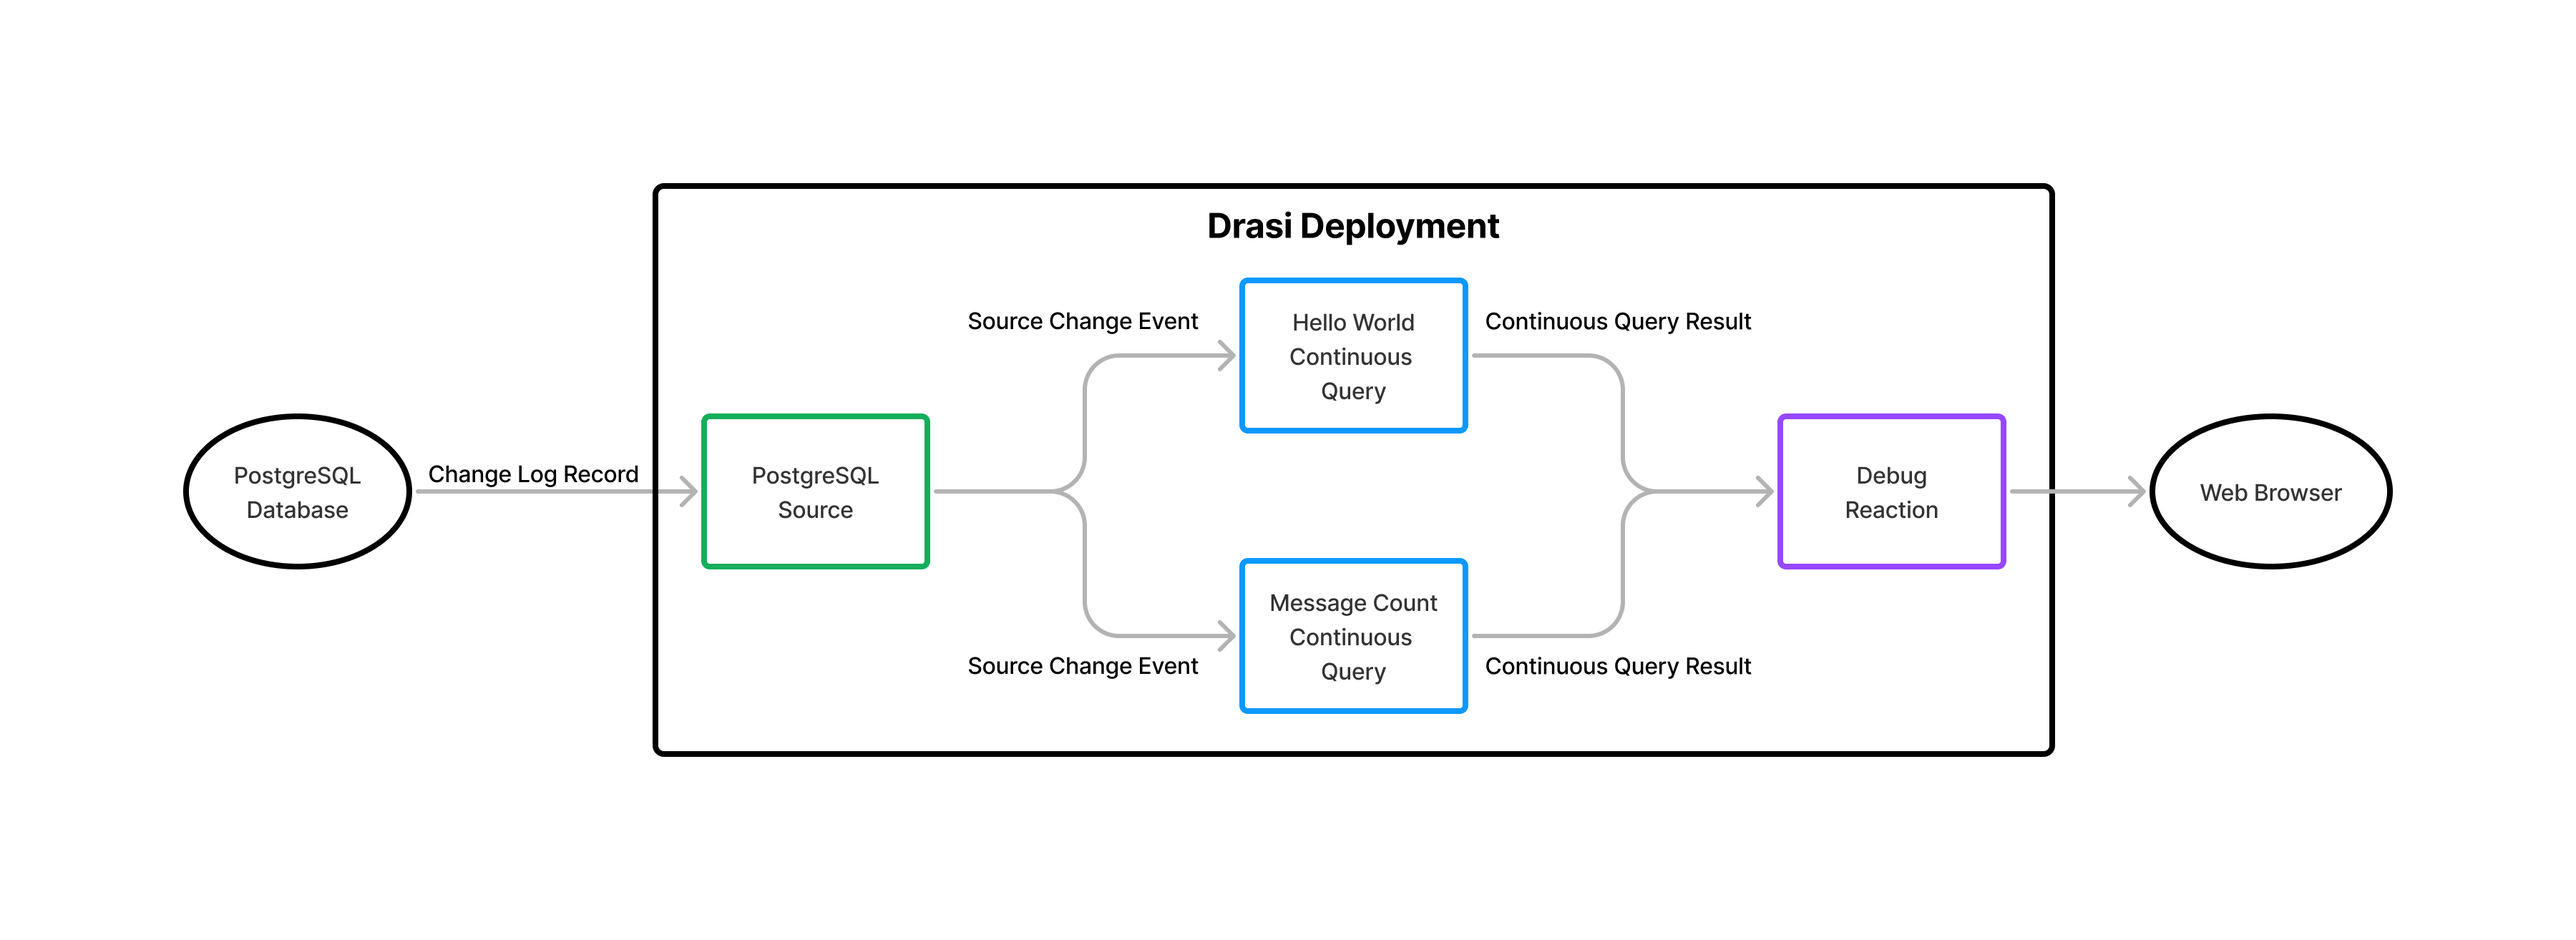
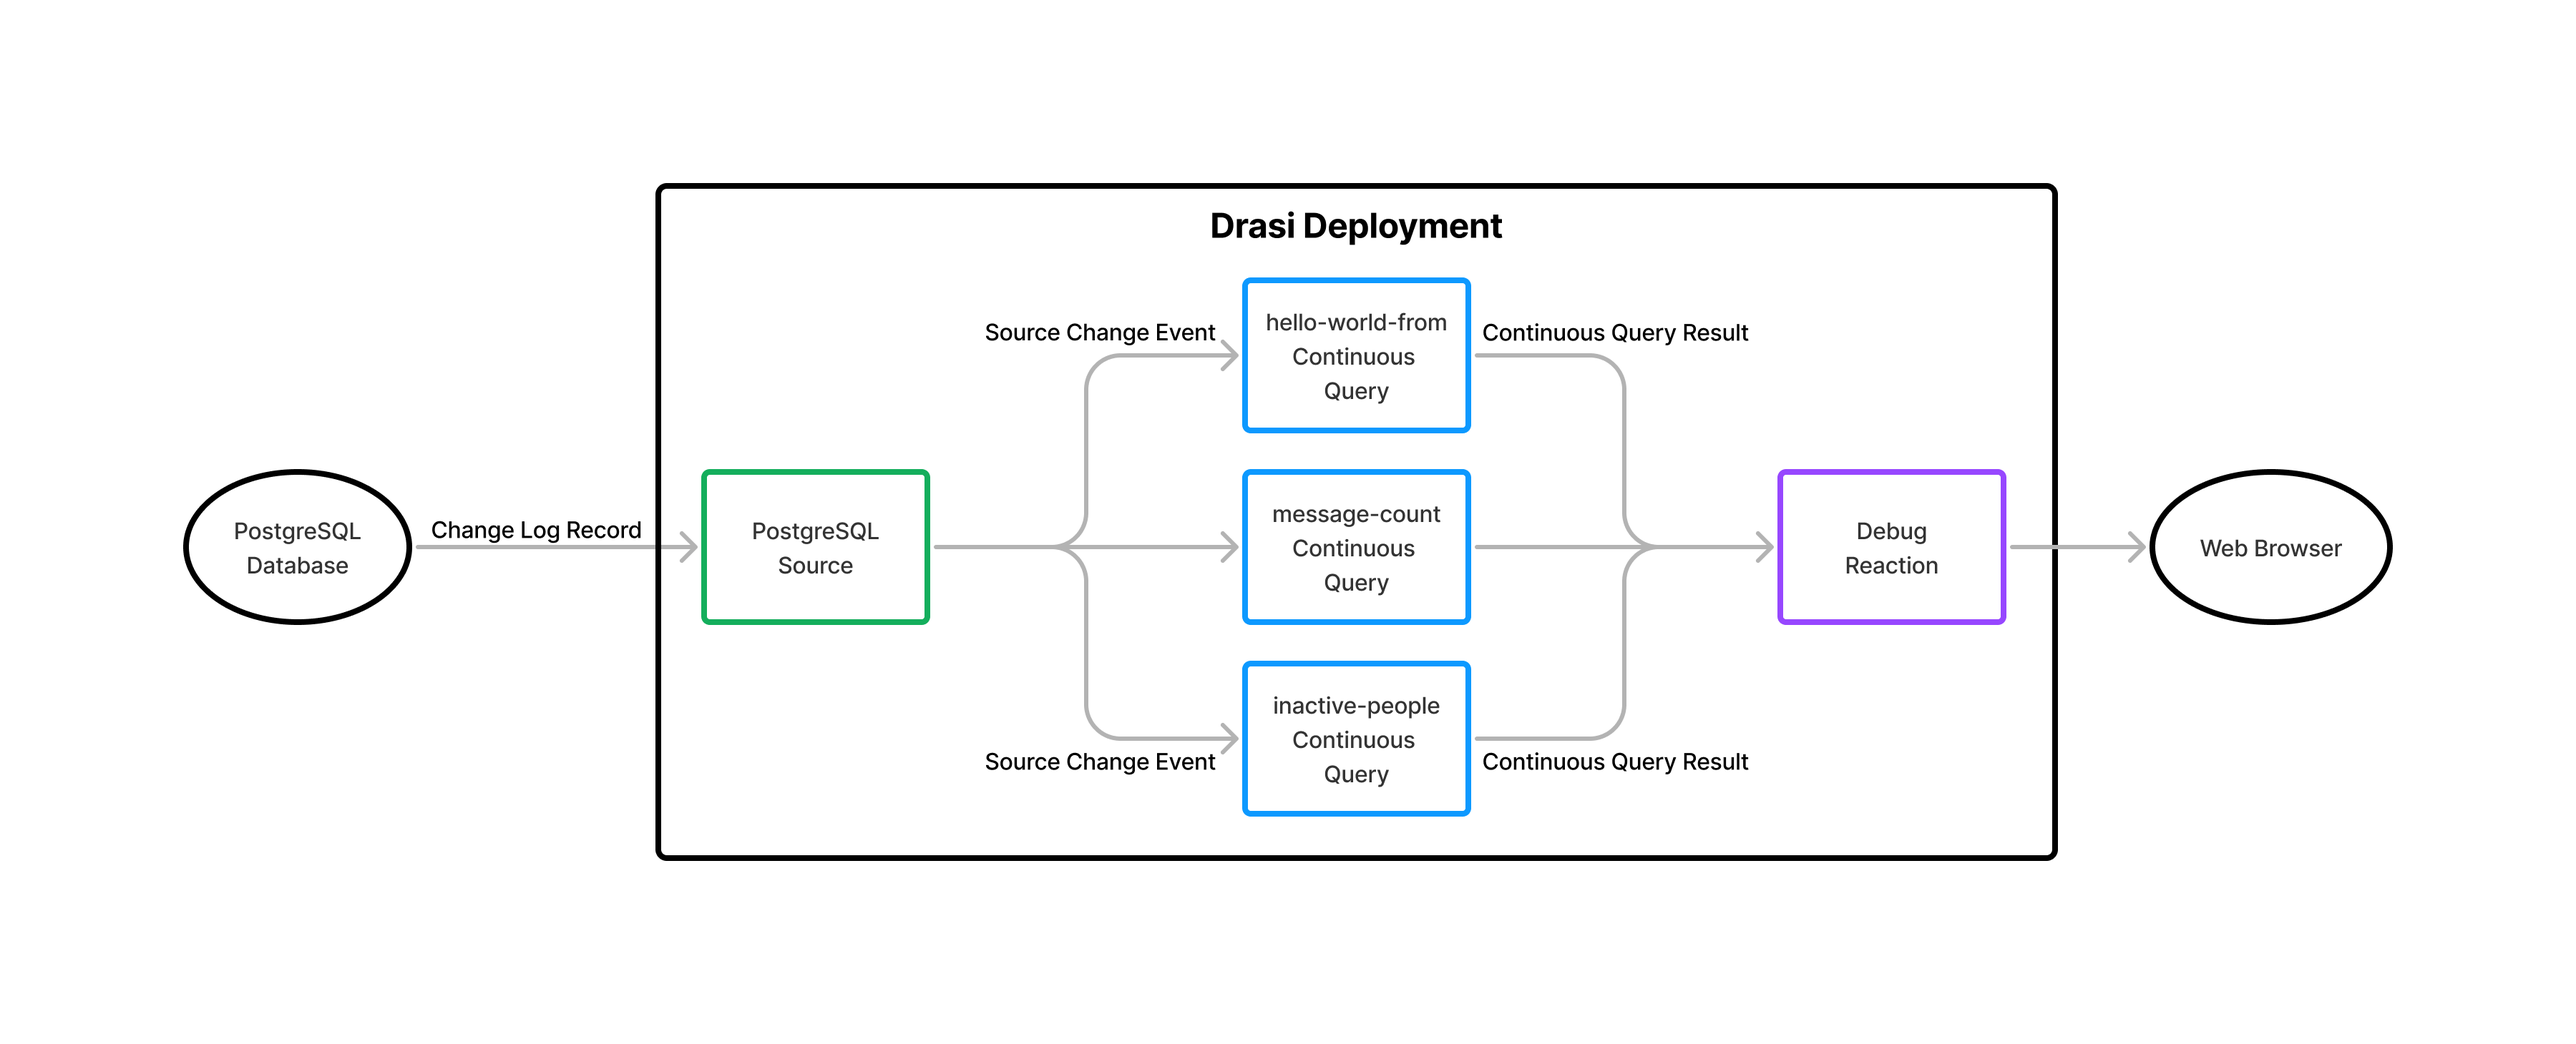
Updates to quickstart-tutorial

diff --git a/docs/content/solution-developer/getting-started/_index.md b/docs/content/solution-developer/getting-started/_index.md
@@ -1,7 +1,7 @@
 ---
 type: "docs"
-title: "Quickstart Tutorial"
-linkTitle: "Quickstart Tutorial"
+title: "QuickStart Tutorial"
+linkTitle: "QuickStart Tutorial"
 weight: 10
 description: >
     Get started building Drasi-based solutions quickly
@@ -9,7 +9,7 @@ description: >
 
 This step-by-step tutorial will help you get Drasi up and running quickly and show you how easy it is to create Sources, Continuous Queries, and Reactions.
 
-After completing this tutorial, you will have created a simple end-to-end Drasi-based solution, and you will have a fully functional Drasi environment suitable for further experimentation on your own. You will then be able to continue to explore the capabilities of the Drasi platform as described in the [Solution Developer Guides](/solution-developer).
+After completing this tutorial, which should take around 30 minutes, you will have created a simple end-to-end Drasi-based solution, and you will have a fully functional Drasi environment suitable for further experimentation on your own. You will then be able to continue to explore the capabilities of the Drasi platform as described in the [Solution Developer Guides](/solution-developer).
 
 ## Solution Overview
 In this sample Drasi solution, the source of data (and change) will be a `Message` table in a PostgreSQL database, which holds the content of messages sent by people. The `Message` table contains these three fields:
@@ -54,7 +54,7 @@ To complete the tutorial, you will be guided through the following steps:
 1. Test the Solution
 
 ## Step 1 - Deploy Drasi
-To complete the Hello World tutorial, you need a Drasi environment. The quickest and easiest way to get  one suitable for the tutorial is to use a [Visual Studio Code Dev Container](https://code.visualstudio.com/docs/devcontainers/containers) we have created for the tutorial. 
+To complete the Hello World tutorial, you need a Drasi environment. The quickest and easiest way to get one suitable for the tutorial is to use a [Visual Studio Code Dev Container](https://code.visualstudio.com/docs/devcontainers/containers) we have created for the tutorial. 
 
 To use the Drasi Dev Container, you will need to install:
 - [Visual Studio Code](https://code.visualstudio.com/) (or [Insiders Edition](https://code.visualstudio.com/insiders))
@@ -62,40 +62,19 @@ To use the Drasi Dev Container, you will need to install:
 - A [git CLI ](https://cli.github.com/) if you are going to download the Dev Container from the Drasi repo
 - Docker
 
-To download the Dev Container files:
-1. Open a terminal window
-1. Create and/or change to a folder where you want to put the Dev Container files
-1. Download the Dev Container files either as a `zip` file from Azure Storage or from the Drasi repo using `git`:
+Once you have these prerequisites installed:
+1. Download the [Drasi QuickStart ZIP file](https://drasi.blob.core.windows.net/tutorials/quickstart-dev-container.zip)
+1. Unzip the Drasi QuickStart ZIP file to a temporary location on your computer
+1. Run VS Code and open the `tutorial/getting-started` folder from the Drasi QuickStart files you just unzipped
 
-{{< tabpane >}}
-{{% tab header="zip" text=true %}}
-1. Download the [Drasi Quickstart ZIP file](https://drasi.blob.core.windows.net/tutorials/quickstart-dev-container.zip)
-1. Unzip the Drasi Quickstart ZIP file in the folder you created above
-{{< /tab >}}
-{{< tab header="git" lang="Bash" >}}
-git clone --filter=blob:none --sparse -b preview https://azure-octo@dev.azure.com/azure-octo/Incubations/_git/ReactiveGraph drasi
-cd drasi
-git sparse-checkout add tutorial
-{{< /tab >}}
-{{< /tabpane >}}
+If you have opened the correct folder, in the VS Code Explorer pane you will see two folders: `.devcontainer` and `resources`. The `.devcontainer` folder contains files that VS Code uses to configure the Dev Container. The `resources` folder contains files you will use later in the tutorial to create Drasi Sources, Continuous Queries, and Reactions.
 
-Then open the folder containing the Dev Container files in VS Code (or VS Code - Insiders) using the following command:
-
-{{< tabpane >}}
-{{< tab header="VS Code" lang="Bash" >}}
-code tutorial/getting-started
-{{< /tab >}}
-{{< tab header="VS Code - Insiders" lang="Bash" >}}
-code-insiders tutorial/getting-started
-{{< /tab >}}
-{{< /tabpane >}}
-
-Once you are in VS Code, run the Dev Container as follows:
+Run the Dev Container as follows:
 1. Open the Command Palette using `Ctrl + Shift + P` (Win/Linux) or `Cmd + Shift + P` (Mac)
 2. Type "dev containers:"
 3. Select "Dev Containers: Rebuild and Reopen in Container"
 
-The Drasi Dev Container will take some time to initialize because it needs to download multiple images, install PostgreSQL, and install Drasi and its dependencies. 
+The Drasi Dev Container will take a few minutes to initialize because it needs to download multiple images, install PostgreSQL, and install Drasi and its dependencies. 
 
 When you see the following message in the Dev Container terminal, it is ready to use and you can proceed with the rest of the tutorial.
 
@@ -104,7 +83,7 @@ Done. Press any key to close the terminal.
 ```
 
 #### Alternatives to the Drasi Dev Container
-The rest of the Quickstart Tutorial assumes you are using the Dev Container. However, if you cannot or do not want to use a Dev Container to run this Quickstart Tutorial, we recommend you install Drasi on a local Kubernetes environment such as [Kind](/reference/using-kind/) and [deploy Drasi from pre-built Preview Images](/administrator/platform-deployment/from-preview-images/). You can also explore other options by going to the [Deploying Drasi](/administrator/platform-deployment/) section.
+The rest of the QuickStart Tutorial assumes you are using the Dev Container. However, if you cannot or do not want to use a Dev Container to run this QuickStart Tutorial, we recommend you install Drasi on a local Kubernetes environment such as [Kind](/reference/using-kind/) and [deploy Drasi from pre-built Preview Images](/administrator/platform-deployment/from-preview-images/). You can also explore other options by going to the [Deploying Drasi](/administrator/platform-deployment/) section.
 
 In this case you must also install a PostgreSQL database to use as a source of change. The [Using PostgreSQL](/reference/setup-postgres) section provides instruction on setting up a Kubernetes hosted PostgreSQL database suitable for this tutorial, including all required tables and data.
 
@@ -135,7 +114,7 @@ This table describes the most important configuration settings in this Source de
 |-|-|
 |kind|Specifies that the resource is a **Source**|
 |name|Provides the **id** of the **Source**. This is used to manage the **Source** and in **Continuous Query** definitions to configure which Sources the Continuous Query uses as input.
-|spec.kind|Identifies this **Source** as a PostgreSQL Source.| 
+|spec.kind|Identifies this **Source** as a PostgreSQL Source that enables connectivity to a PostgreSQL database.| 
 |spec.host|The DNS host name of the PostgreSQL server.|
 |spec.user|The User ID that the Source will use to connect to the PostgreSQL database.|
 |spec.password|The Password for the User ID that the Source will use to connect to the PostgreSQL database.<br />**Note**: It is also possible to reference a Kubernetes secret for this value, see [Sources](/solution-developer/components/sources) for more details.|
@@ -155,7 +134,7 @@ It may take a minute or two for the new Source to startup and become available. 
 drasi list source
 ```
 
-You should expect to see a response like this until the Source is ready (AVAILABLE=true):
+You should expect to see a response like this until the Source is ready (AVAILABLE = true):
 ```
       ID      | AVAILABLE  
 --------------+------------
@@ -236,14 +215,14 @@ This table describes the most important configuration settings in these Continuo
 |kind|Specifies that the resource is a **Continuous Query**|
 |name|Provides the **id** of the Continuous Query. This is used to manage the Continuous Query and in the Reaction configuration below to tell the Reaction which Continuous Queries to subscribe to.|
 |spec.source.subscriptions.id| Identifies the **id** of the Source the Continuous Query will subscribe to as a source of change data. In this instance, the **id** "hello-world" refer to the PostgreSQL Source created in the previous step.|
-|spec.query|Contains the [Cypher Query](/solution-developer/query-language/) that defines the behavior of the Continuous Query i.e. which changes it is detecting and the content of its result set.|
+|spec.query|Contains the [Cypher Query](/solution-developer/query-language/) that defines the behavior of the Continuous Query i.e. what data it is observing to detect change and the content of its result set.|
 
 The following table describes the Cypher Query used by each of the Continuous Queries:
 |Query|Description|
 |-|-|
 |hello-world-from|Matches all nodes with a label (type) `Message` and filters for only those that have a `Message` field containing the value "Hello World". For records that match that pattern, it includes their `MessageId` and `From` fields in the query result.|
-|message-count|Matches all nodes with a label (type) `Message` and counts the number of times `Message` nodes with the same value in their `Message` field. For each unique message value, the query result will contain the message value and its `Frequency`.|
-|inactive-people|Matches all nodes with a label (type) `Message` and uses the time when the `Message` was added to the database to represent that `LastMessageTimestamp` for the person that sent the message. The query uses the [drasi.trueLater](/solution-developer/query-language/#drasi-future-functions) function to only include people that haven't sent messages in the last 10 seconds to be included in the query result.|
+|message-count|Matches all nodes with a label (type) `Message` and counts the number of times `Message` nodes have the same value in their `Message` field. For each unique message value, the query result will contain the `Message` value and its `Frequency`.|
+|inactive-people|Matches all nodes with a label (type) `Message` and uses the time when the `Message` was added to the database to represent that `LastMessageTimestamp` for the person that sent the message. The query uses the [drasi.trueLater](/solution-developer/query-language/#drasi-future-functions) function to only include people that **haven't** sent messages in the last 10 seconds to be included in the query result.|
 
 Use the `drasi` CLI to create the Continuous Queries by running the following command in a terminal window:
 
@@ -312,6 +291,14 @@ You should expect to see the following response:
 --------------------+------------
   hello-world-debug | false  
 ```
+
+If your Reaction is not yet available (AVAILABLE = false), you can use the `drasi wait` command to wait for it to complete its startup:
+
+```bash
+drasi wait reaction hello-world-debug -t 120
+```
+
+When `drasi wait` returns, your Debug Reaction is created and ready to use.
 
 Once the Debug Reaction is working (AVAILABLE = true), the Drasi Hello World solution is fully deployed and ready to test.
 

diff --git a/docs/content/_index.md b/docs/content/_index.md
@@ -10,7 +10,7 @@ description: >
 ## Getting Started
 - If you want to **understand** the concepts, functionality, and benefits of Drasi, read the [Introduction](#introduction) and [Benefits](#benefits) sections below.
 
-- If you are a **developer** who wants to get started using Drasi quickly, do the [Quickstart Tutotrial](/solution-developer/getting-started). And then explore the [Solution Developer Guides](/solution-developer) to learn more about building solutions that use Drasi.
+- If you are a **developer** who wants to get started using Drasi quickly, do the [QuickStart Tutorial](/solution-developer/getting-started). And then explore the [Solution Developer Guides](/solution-developer) to learn more about building solutions that use Drasi.
 
 - If you need to **deploy** or **manage** a Drasi environment, go to the [Administrator Guides](/administrator)
 
